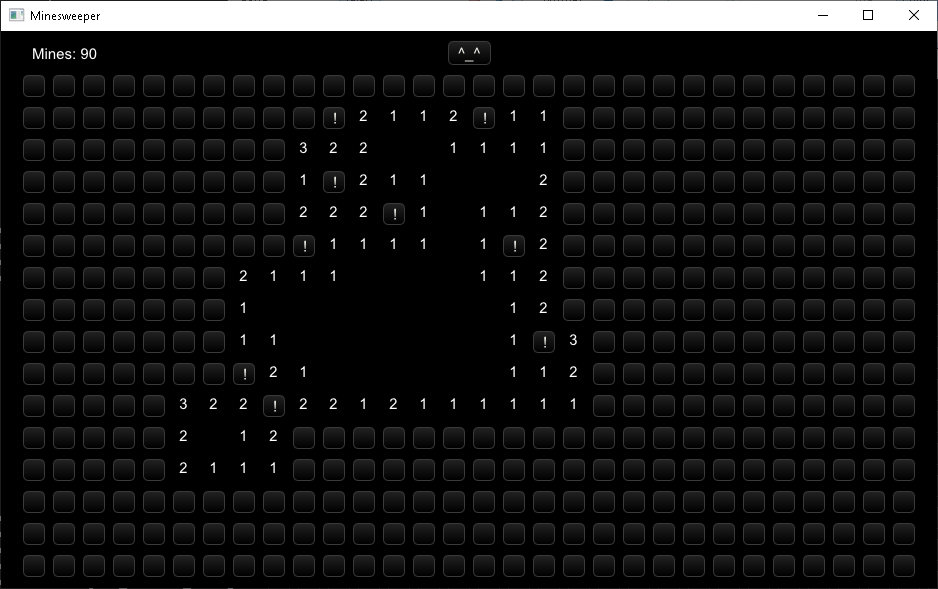
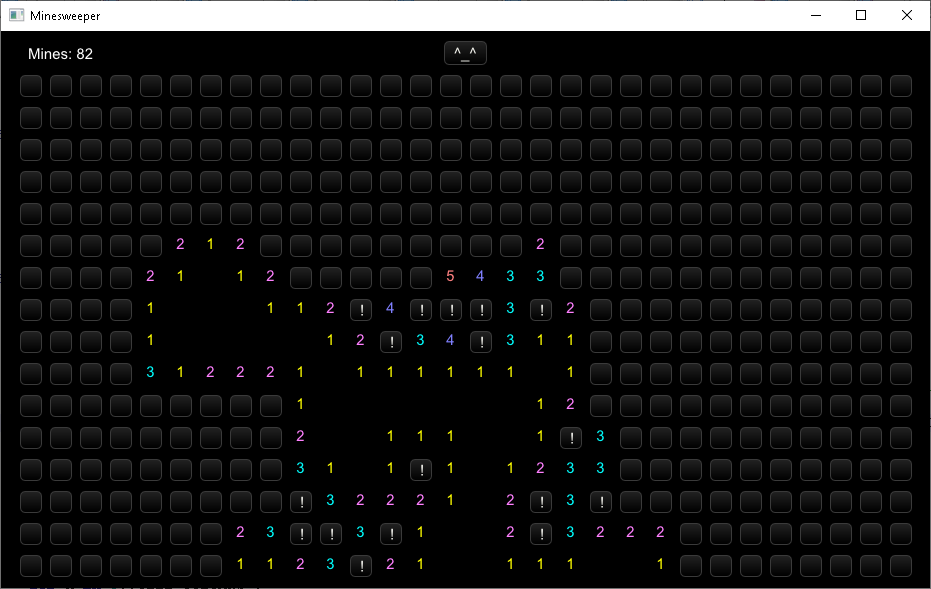
Colored the numbers

diff --git a/src/main.rs b/src/main.rs
@@ -76,6 +76,20 @@ where
     }
 }
 
+fn text_color(number: u8) -> xilem::Color {
+    match number {
+        1 => xilem::Color::rgb(1.0, 1.0, 0.0),
+        2 => xilem::Color::rgb(1.0, 0.5, 1.0),
+        3 => xilem::Color::rgb(0.0, 1.0, 1.0),
+        4 => xilem::Color::rgb(0.5, 0.5, 1.0),
+        5 => xilem::Color::rgb(1.0, 0.5, 0.5),
+        6 => xilem::Color::rgb(0.5, 1.0, 1.0),
+        7 => xilem::Color::WHITE,
+        8 => xilem::Color::GRAY,
+        _ => xilem::Color::BLACK,
+    }
+}
+
 impl Game {
     fn new() -> Game {
         let mut game = Game {
@@ -255,7 +269,7 @@ fn app_logic(game: &mut Game) -> impl xilem::WidgetView<Game> {
                     (CellStatus::Revealed, CellValue::Mined, _) => Box::new(view::label(" X")),
                     (CellStatus::Revealed, CellValue::Number(0), _) => Box::new(view::label("")),
                     (CellStatus::Revealed, CellValue::Number(number), _) => {
-                        Box::new(view::label(format!(" {}", number)))
+                        Box::new(view::label(format!(" {}", number)).color(text_color(number)))
                     }
                 };
             columns.push(view::sized_box(cell).width(22.).height(22.));

diff --git a/readme.md b/readme.md
@@ -14,9 +14,10 @@ Features:
 * Clicking a blank space recusively opens up the sides and corners.
 * Detects if you won or lost the game, lets you restart the game.
 * Right clicking adds flags
+* Colored numbers
 
 Missing Features:
 
 * Double clicking on numbers doesn't reveal surrounding cells.
-* No color or images/emojis
+* No images/emojis
 * No clock
